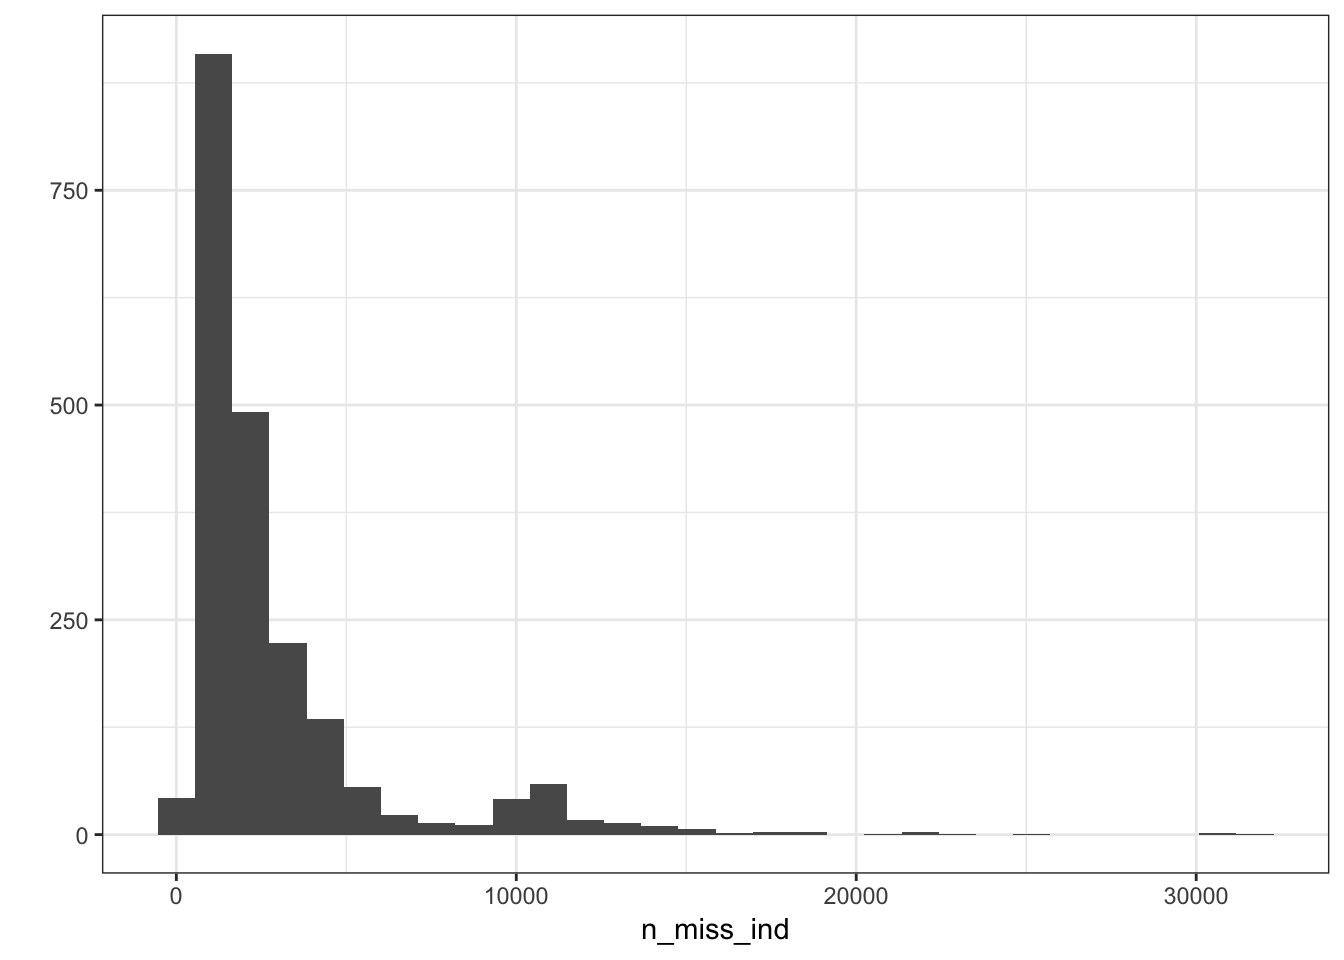
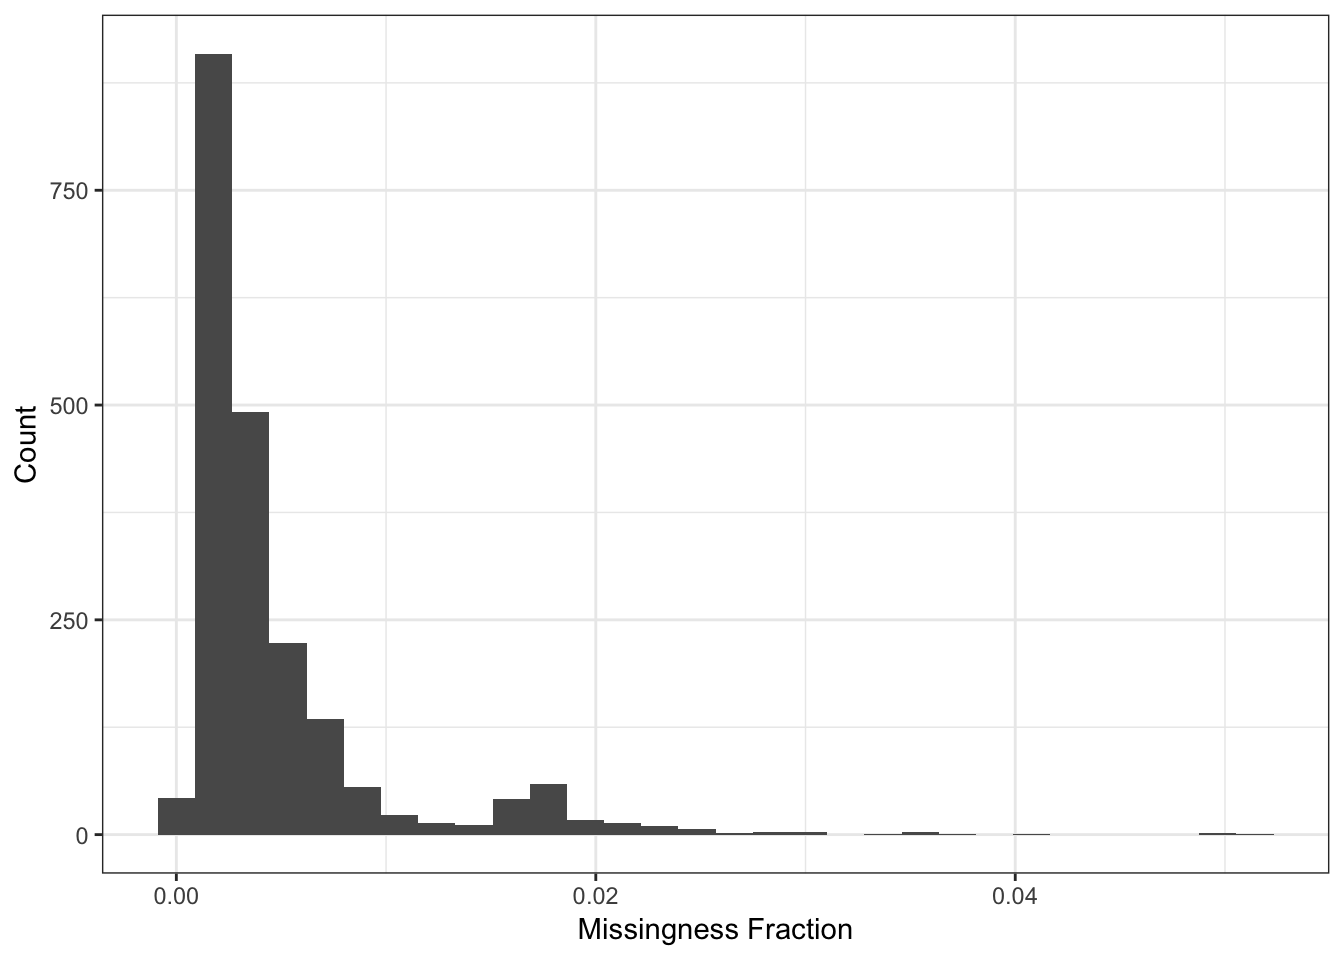
addded miss per pop and contributer

diff --git a/docs/data_hoa_global.html b/docs/data_hoa_global.html
@@ -519,10 +519,10 @@ This reproducible <a href="http://rmarkdown.rstudio.com">R Markdown</a> analysis
 <div class="panel panel-default">
 <div class="panel-heading">
 <p class="panel-title">
-<a data-toggle="collapse" data-parent="#workflowr-checks" href="#strongRepositoryversionstrongahrefhttpsgithubcomjhmarcusdriftworkflowtree50b1ec0150d9720c34e0fe48d74888194b0f27d2targetblank50b1ec0a"> <span class="glyphicon glyphicon-ok text-success" aria-hidden="true"></span> <strong>Repository version:</strong> <a href="https://github.com/jhmarcus/drift-workflow/tree/50b1ec0150d9720c34e0fe48d74888194b0f27d2" target="_blank">50b1ec0</a> </a>
+<a data-toggle="collapse" data-parent="#workflowr-checks" href="#strongRepositoryversionstrongahrefhttpsgithubcomjhmarcusdriftworkflowtreed2573ea2a5c888721ba7ff05abea55e2f9027d75targetblankd2573eaa"> <span class="glyphicon glyphicon-ok text-success" aria-hidden="true"></span> <strong>Repository version:</strong> <a href="https://github.com/jhmarcus/drift-workflow/tree/d2573ea2a5c888721ba7ff05abea55e2f9027d75" target="_blank">d2573ea</a> </a>
 </p>
 </div>
[2 lines of base64/hex data omitted]
 <div class="panel-body">
 <p>
 Great! You are using Git for version control. Tracking code development and connecting the code version to the results is critical for reproducibility. The version displayed above was the version of the Git repository at the time these results were generated. <br><br> Note that you need to be careful to ensure that all relevant files for the analysis have been committed to Git prior to generating the results (you can use <code>wflow_publish</code> or <code>wflow_git_commit</code>). workflowr only checks the R Markdown file, but you know if there are other scripts or data files that it depends on. Below is the status of the Git repository when the results were generated:
@@ -583,6 +583,40 @@ Message
 </tr>
 </thead>
 <tbody>
+<tr>
+<td>
+Rmd
+</td>
+<td>
+<a href="https://github.com/jhmarcus/drift-workflow/blob/e2a3abaac502e13c82c48278b8e11359f710591c/analysis/data_hoa_global.Rmd" target="_blank">e2a3aba</a>
+</td>
+<td>
+jhmarcus
+</td>
+<td>
+2019-03-05
+</td>
+<td>
+updated plink filtering command
+</td>
+</tr>
+<tr>
+<td>
+html
+</td>
+<td>
+<a href="https://rawcdn.githack.com/jhmarcus/drift-workflow/e2a3abaac502e13c82c48278b8e11359f710591c/docs/data_hoa_global.html" target="_blank">e2a3aba</a>
+</td>
+<td>
+jhmarcus
+</td>
+<td>
+2019-03-05
+</td>
+<td>
+updated plink filtering command
+</td>
+</tr>
 <tr>
 <td>
 Rmd
@@ -742,9 +776,12 @@ p = ncol(Y)</code></pre>
 </div>
 <div id="missingness-per-snp" class="section level1">
 <h1>Missingness per SNP</h1>
+<p>Here I compute the missingness per SNP:</p>
 <pre class="r"><code>n_miss_snp = colSums(is.na(Y))
 p_snpmss = qplot(n_miss_snp / n, bins=100) + theme_bw() + 
-           scale_x_continuous(breaks = pretty(n_miss_snp / n, n = 10)) 
+           scale_x_continuous(breaks = pretty(n_miss_snp / n, n = 10)) +
+           xlab(&quot;Missingness Fraction&quot;) +
+           ylab(&quot;Count&quot;)
 
 p_snpmss</code></pre>
 <p><img src="figure/data_hoa_global.Rmd/miss-per-snp-1.png" width="672" style="display: block; margin: auto;" /></p>
@@ -800,8 +837,11 @@ jhmarcus
 </div>
 <div id="missingness-per-individual" class="section level1">
 <h1>Missingness per Individual</h1>
+<p>Here I compute the missingness per individual:</p>
 <pre class="r"><code>n_miss_ind = rowSums(is.na(Y))
-p_indmss = qplot(n_miss_ind) + theme_bw()
+p_indmss = qplot(n_miss_ind / p) + theme_bw() +
+           xlab(&quot;Missingness Fraction&quot;) +
+           ylab(&quot;Count&quot;)
 p_indmss</code></pre>
 <p><img src="figure/data_hoa_global.Rmd/miss-per-ind-1.png" width="672" style="display: block; margin: auto;" /></p>
 <p>
@@ -853,6 +893,53 @@ jhmarcus
 </div>
 </div>
 <p>It seems like a few individuals are missing about 20000 of their SNPs which is a bit worrisome maybe they should be removed from the analysis? For now I will in include them and see if they pop up as any outliers in the PCs.</p>
+</div>
+<div id="missingness-per-population" class="section level1">
+<h1>Missingness per Population</h1>
+<p>Here I compute the missingness fraction per population:</p>
+<pre class="r"><code># meta data
+meta_df = read.table(&quot;../data/meta/HumanOriginsPublic2068.meta&quot;, sep=&quot;\t&quot;, header=T)
+meta_df$miss_frac = n_miss_ind / p
+
+# average missingness per pop for sorting
+avg_miss_df = meta_df %&gt;% 
+              group_by(Simple.Population.ID) %&gt;% 
+              summarise(avg_miss=mean(miss_frac)) %&gt;%
+              arrange(desc(avg_miss)) 
+
+# distribution of missingness per pop
+p_popmss = ggplot(meta_df, aes(x=factor(Simple.Population.ID, 
+                                        levels=avg_miss_df$Simple.Population.ID), 
+                               y=miss_frac)) + 
+           geom_boxplot() +
+           theme_classic() +
+           theme(axis.text.x = element_text(angle = 90, hjust = 1, size=6)) +
+           xlab(&quot;Population&quot;) +
+           ylab(&quot;Missingness Fraction&quot;)
+p_popmss</code></pre>
+<p><img src="figure/data_hoa_global.Rmd/miss-per-pop-1.png" width="1056" style="display: block; margin: auto;" /></p>
+</div>
+<div id="missingness-per-contributer" class="section level1">
+<h1>Missingness per Contributer</h1>
+<p>Here I compute the average missingness fraction per contributor:</p>
+<pre class="r"><code># average missingness per contributer for sorting
+avg_miss_df = meta_df %&gt;% 
+              group_by(Contributor) %&gt;% 
+              summarise(avg_miss=mean(miss_frac)) %&gt;%
+              arrange(desc(avg_miss)) 
+
+# distribution of missingness per contributer
+p_conmss = ggplot(meta_df, aes(x=factor(Contributor, 
+                                        levels=avg_miss_df$Contributor), 
+                               y=miss_frac)) + 
+           geom_boxplot() +
+           theme_classic() +
+           theme(axis.text.x = element_text(angle = 90, hjust = 1, size=6)) +
+           xlab(&quot;Contributer&quot;) +
+           ylab(&quot;Missingness Fraction&quot;)
+p_conmss</code></pre>
+<p><img src="figure/data_hoa_global.Rmd/miss-per-con-1.png" width="816" style="display: block; margin: auto;" /></p>
+<p>It seems like there is some variation in the amount of missingness per pop and contributor (there might be some confounding there) but the total amount of missingness is so low I think it can be ignored?</p>
 </div>
 <div id="filter" class="section level1">
 <h1>Filter</h1>
